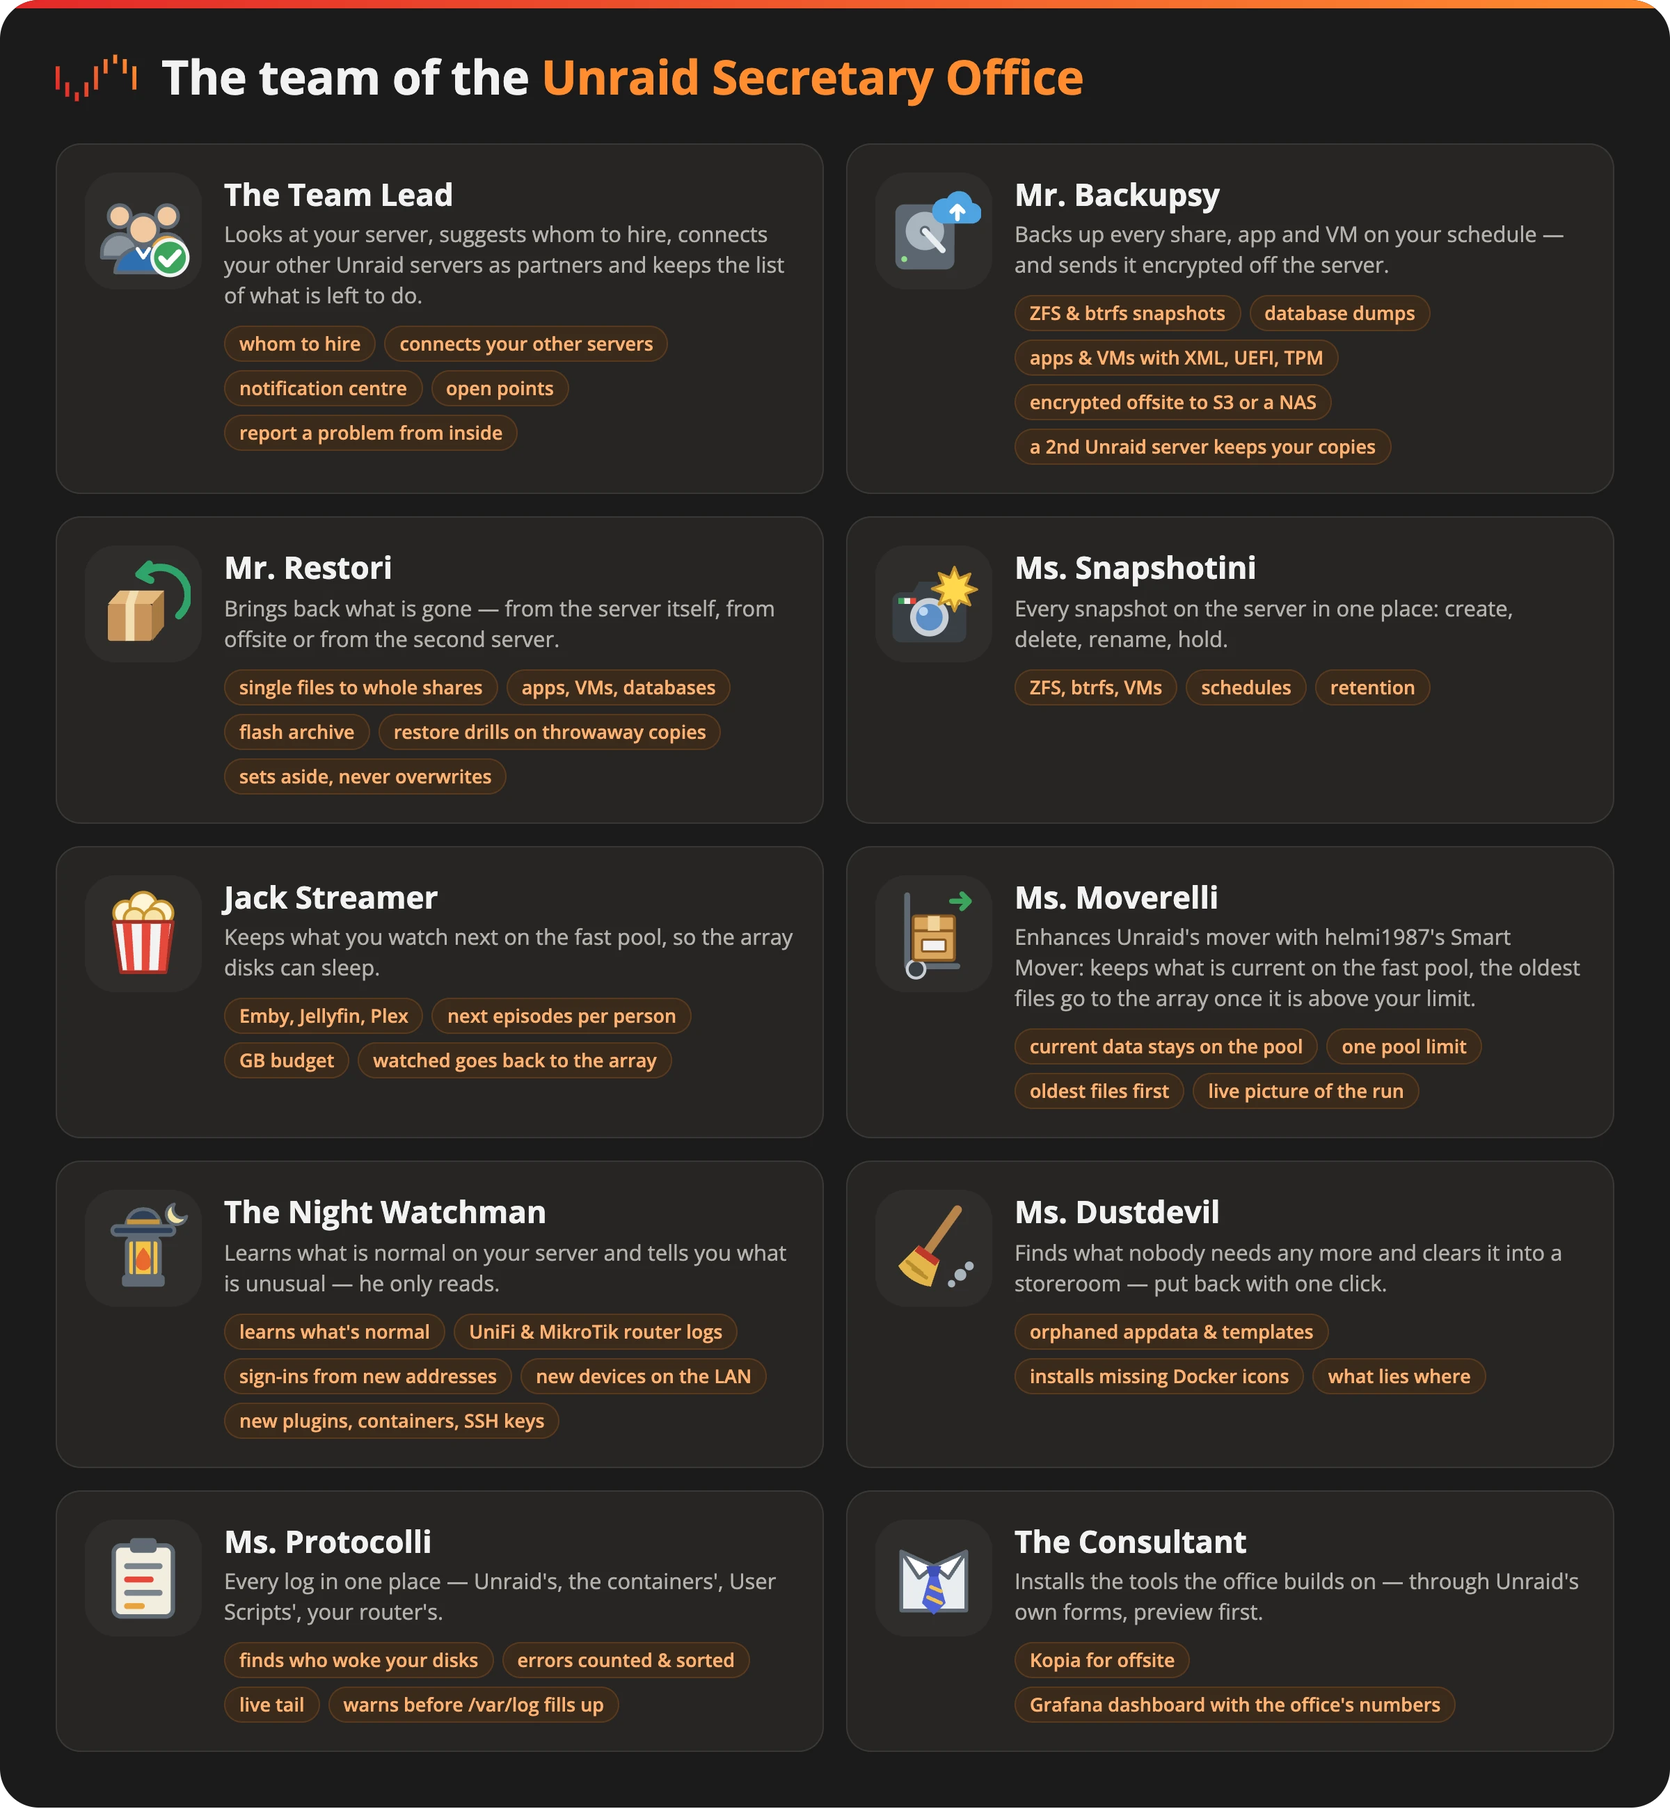
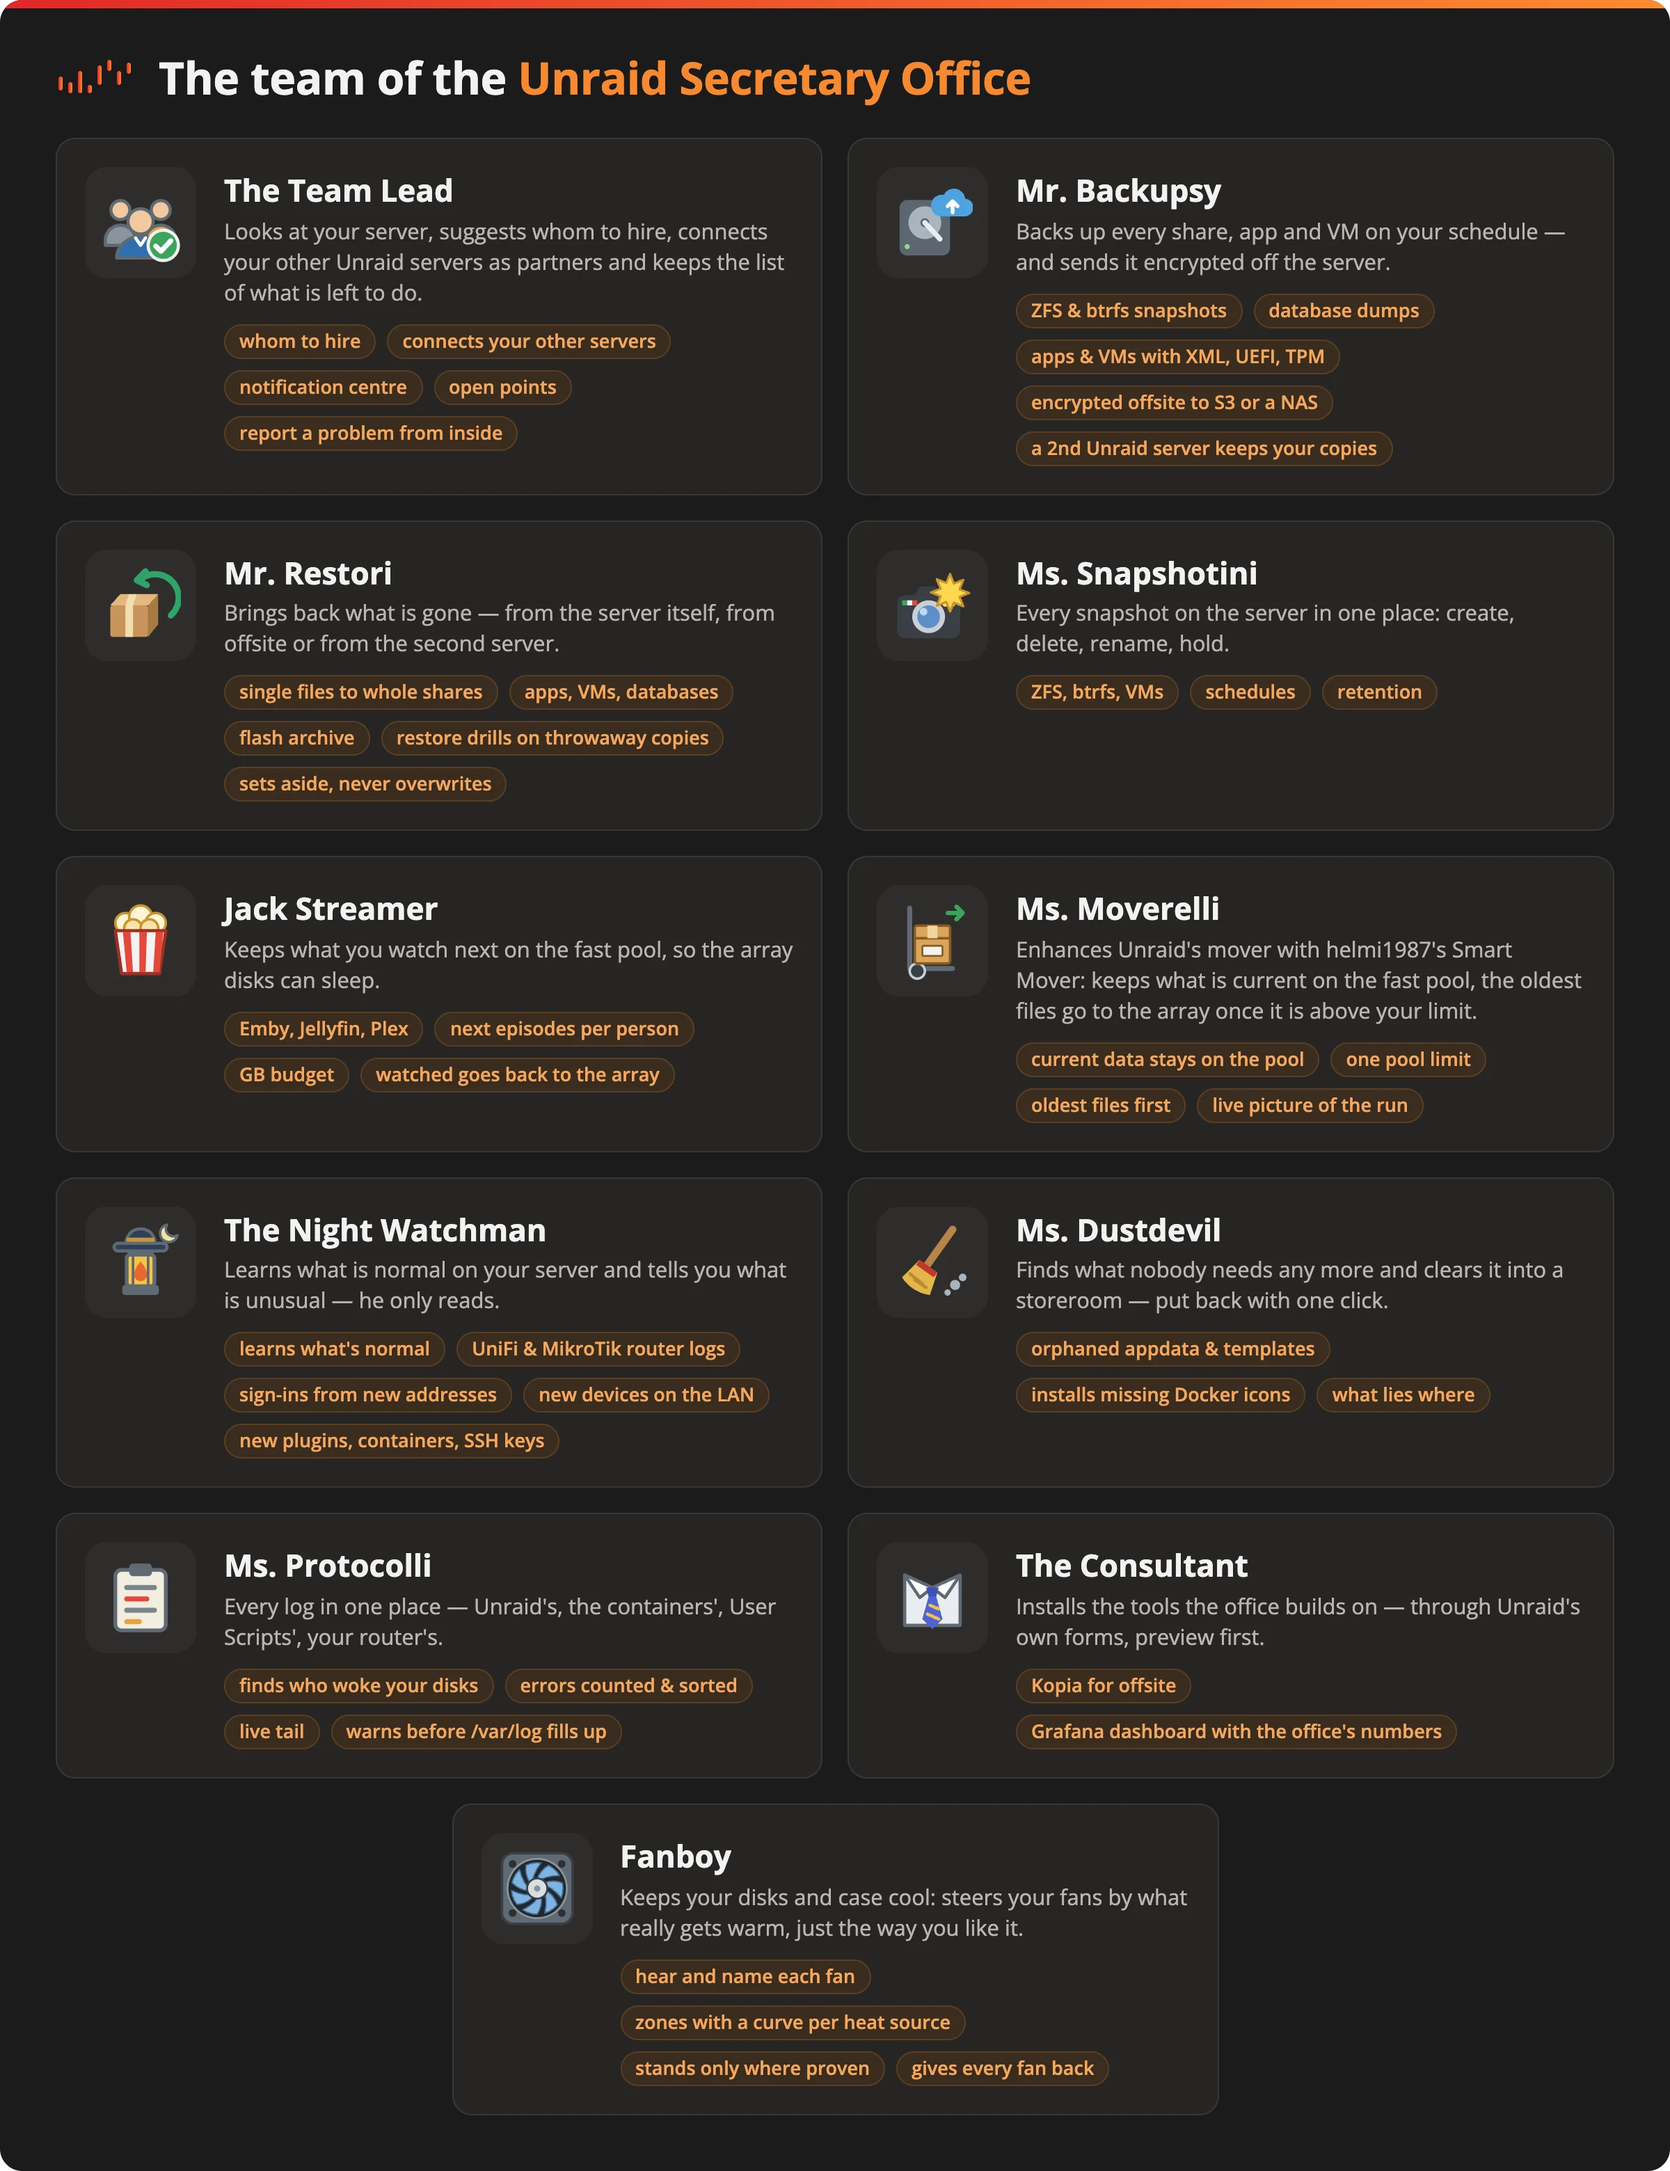
README and guide: Fanboy for the release (draft)
README: Fanboy in the lead's list, his own short section with a picture of
his page (demo data, en, light and dark, 1280 px), the team picture anew with
his card (11 cards). GUIDE: his row in the staff table, his section, his alarms
under Notifications; Ms. Snapshotini unmounts a snapshot's mounts before a ZFS
rename and says what holds it.

diff --git a/docs/GUIDE.md b/docs/GUIDE.md
@@ -21,6 +21,7 @@ Each desk is one person with one job. Hire only the ones your server needs.
 | 🧹 | **Ms. Dustdevil** | Shows how full everything is and clears away what nobody uses, into a storeroom first. |
 | 📝 | **Ms. Protocolli** | Reads every log, counts errors and warnings, says who woke your disks. |
 | 💼 | **The Consultant** | Installs the tools the office relies on with you, a preview first. |
+| 🌀 | **Fanboy** | Steers the fans in zones by what really gets warm, and gives them back when he stops. |
 
 **Hiring and letting go:**
 
@@ -260,6 +261,8 @@ List, dry run and real run from her page or on her own schedule. She takes over 
 Every ZFS, btrfs and VM snapshot on the server, in one place.
 
 - Create, rename, hold, and delete with an estimate of the space freed.
+- Before a ZFS rename she unmounts its snapshot mounts. If something still holds one, she says what and leaves the
+  name as it is (on Unraid 7.4 a rename then could stop the server).
 - Schedules with a simple retention that only ever clears away her own snapshots.
 - Her tour never wakes a disk. *Tour, reading them too* reads sleeping disks as well and says whether they woke.
 - Entries a deleted VM leaves in Unraid's snapshot list go into the storeroom once nothing of them is left on disk.
@@ -331,6 +334,24 @@ She reads every log out loud: Unraid's, the office's, the plugins', every User S
   over SMB or NFS, the mover, a task. Per disk how often today and in 7 days. She never wakes a disk.
 - **/var/log:** from 80 % she says which file fills it and who writes it. At 90 % she sends one notification.
 - **Schedule:** her tour on its own, off until you set it.
+
+### Fanboy
+
+His fans' biggest fan: he steers the fans on the mainboard's fan connectors by what really gets warm.
+
+- **Setup in five steps:** he finds the outputs Linux can steer; *Test and assign* runs one fan at full for up to a
+  minute (the others can stand meanwhile) so you hear it and give it a name and a role; he measures each fan, its
+  standstill and start too; you put fans and heat sources into zones; *Take over* hands them to him.
+- **A curve per kind of heat source** in a zone: HDD, SSD/NVMe, CPU, board, RAM. Disks outside the array and pools
+  count too. A sleeping disk is never woken.
+- A fan may stand still only when the measuring saw it start again. The CPU cooler and pumps stay with the BIOS,
+  unless you give him the cooler at your own risk.
+- **Alarms per zone:** a fan of his that stands, too warm at full, a sensor that says nothing: that zone goes to 100 %.
+  He also watches the fans he doesn't steer and tells you when one stands while something is warm.
+- *Hand back* gives every fan back at once, to the mainboard's automatic or to its value from before. So does his stop.
+  A fan that turns clearly slower after he gave it back goes to 100 %, and he tells you.
+- His own Dashboard tile, off until you switch it on.
+- Boards that steer their fans over IPMI aren't supported yet: his page says so and sends a wish with his report.
 
 ### The Consultant
 
@@ -442,6 +463,7 @@ What needs you while the office is closed goes to Unraid's notifications, as *Un
 - A drill that couldn't prove a restore, a schedule's problem.
 - A new point on the Team Lead's list after half an hour.
 - The Night Watchman's new entries, a parity check after an unclean stop.
+- Fanboy's alarms: a fan that stands, too warm, a silent sensor, the fan chip gone.
 - The messenger silent for ten minutes.
 
 They come in the language you last used the office in.

diff --git a/README.md b/README.md
@@ -6,11 +6,11 @@
 </h1>
 
 A whole team supports you in running your Unraid server, right in Unraid's web UI: backups and restore, snapshots, a
-media cache for Emby, Jellyfin and Plex, a smart mover, a night watchman and every log in one place.
+media cache for Emby, Jellyfin and Plex, a smart mover, a night watchman, fan control and every log in one place.
 
 [Product page](https://uso.dropnook.app) · [Full guide](docs/GUIDE.md)
 
-<a name="team"><picture><source media="(prefers-color-scheme: dark)" srcset="https://raw.githubusercontent.com/dropnook/UnraidSecretaryOffice/main/docs/screenshots/team-dark.webp"><img src="https://raw.githubusercontent.com/dropnook/UnraidSecretaryOffice/main/docs/screenshots/team-light.webp" alt="The team: the Team Lead, Mr. Backupsy, Mr. Restori, Ms. Snapshotini, Jack Streamer, Ms. Moverelli, the Night Watchman, Ms. Dustdevil, Ms. Protocolli and the Consultant"></picture></a>
+<a name="team"><picture><source media="(prefers-color-scheme: dark)" srcset="https://raw.githubusercontent.com/dropnook/UnraidSecretaryOffice/main/docs/screenshots/team-dark.webp"><img src="https://raw.githubusercontent.com/dropnook/UnraidSecretaryOffice/main/docs/screenshots/team-light.webp" alt="The team: the Team Lead, Mr. Backupsy, Mr. Restori, Ms. Snapshotini, Jack Streamer, Ms. Moverelli, the Night Watchman, Ms. Dustdevil, Ms. Protocolli, the Consultant and Fanboy"></picture></a>
 
 Start with the Team Lead. He looks at your server and suggests whom to hire.
 
@@ -40,6 +40,15 @@ A round every five minutes; he only reads. What is unusual goes into his watch b
 new plugin, far more data pulled than usual, a new device on the LAN — and your router's log, if you like.
 
 <a name="watchman-book"><picture><source media="(prefers-color-scheme: dark)" srcset="https://raw.githubusercontent.com/dropnook/UnraidSecretaryOffice/main/docs/screenshots/watchman-dark.png"><img src="https://raw.githubusercontent.com/dropnook/UnraidSecretaryOffice/main/docs/screenshots/watchman-light.png" alt="The watch book"></picture></a>
+
+## Fanboy, the fan control
+
+He steers your fans by what really gets warm. You hear and name each fan, he measures it, and then runs zones with a
+curve per kind of heat source: disks, SSDs, CPU, board. A fan stands still only where he has seen it start again;
+the ones he doesn't steer, he watches. Stopped, he gives every fan back. Boards that steer their fans over IPMI aren't
+supported yet.
+
+<a name="fanboy"><picture><source media="(prefers-color-scheme: dark)" srcset="https://raw.githubusercontent.com/dropnook/UnraidSecretaryOffice/main/docs/screenshots/fanboy-dark.png"><img src="https://raw.githubusercontent.com/dropnook/UnraidSecretaryOffice/main/docs/screenshots/fanboy-light.png" alt="Fanboy: two zones, each fan with its speed, the warmest spot of each zone framed"></picture></a>
 
 Also on the team: Ms. Snapshotini, Ms. Dustdevil, Ms. Protocolli and the Consultant. Five languages, Unraid's themes,
 search with ⌘K, on the phone too. **[The full guide](docs/GUIDE.md)** walks through every desk.
